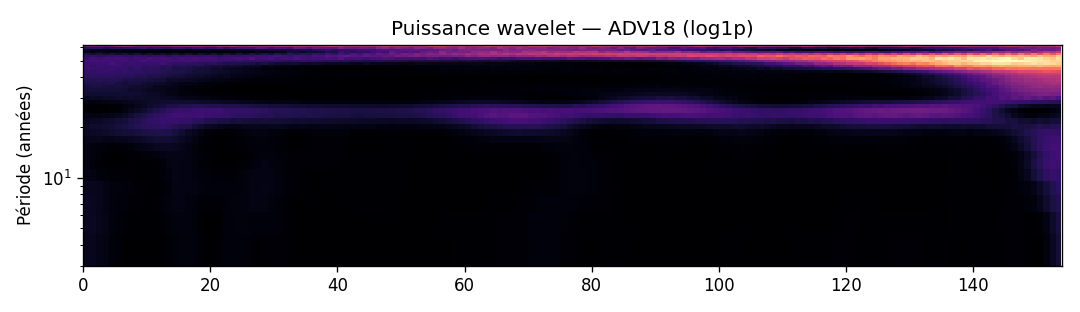
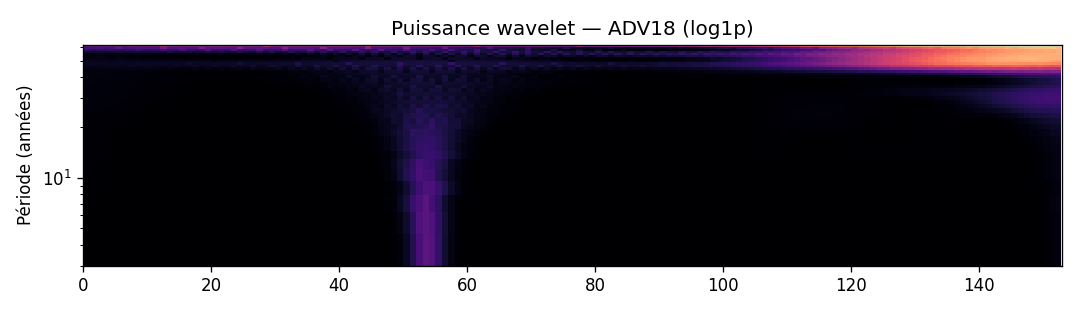
feat(cpv): real long-history run on Maddison + JST R6 (153 years)
- Update scripts/download_macrohistory.sh with the verified JST R6 download
  URL (https://www.macrohistory.net/app/download/9834512569/JSTdatasetR6.xlsx).
- Fix long_history.py loaders against the real datasets:
  * Maddison: drop duplicate (country, year) rows from historical
    imputation overlaps.
  * JST: read 'Sheet1' (not 'Data'); rename the existing 'country' column
    (long name) out of the way before renaming 'iso' → 'country';
    deduplicate per (country, year).
- Run position-cycles --horizon long --null dual on the real 153-year panel.

Headline finding (6 groups × 4 cycles, 153 years of data):
  - 8 cells survive Gate 1 (up from 4 on the WB 65-year panel).
  - 3 concrete phases instead of just `disputed`:
      USA    Juglar = expansion, rising,  next max ~2.1 yrs (~mid-2028)
      ANGLO  Juglar = expansion, rising,  next max ~2.1 yrs
      NORDIC Juglar = contraction, falling, next max ~3.7 yrs
  - Kondratieff for ADV18 + EU4 is `disputed` but separable.
  - Kitchin remains rejected on annual data (Nyquist limit).

diff --git a/ecowave/cycles/long_history.py b/ecowave/cycles/long_history.py
@@ -97,22 +97,49 @@ def load_maddison_gdp(path: Path) -> pd.DataFrame:
     df.columns = [c.lower() for c in df.columns]
     if "countrycode" not in df.columns or "year" not in df.columns:
         raise ValueError(f"Unexpected Maddison schema: columns={list(df.columns)}")
-    return (df[["countrycode", "year", MADDISON_GDP_COL]]
+    out = (df[["countrycode", "year", MADDISON_GDP_COL]]
             .rename(columns={"countrycode": "country"})
             .dropna(subset=["country", "year"]))
+    # MPD 2023 has some country-year duplicates (historical-imputation overlaps);
+    # we keep the last value per (country, year) deterministically.
+    return (out.sort_values(["country", "year"])
+              .drop_duplicates(subset=["country", "year"], keep="last")
+              .reset_index(drop=True))
 
 
 # --- JST loader ---------------------------------------------------------
 
 def load_jst(path: Path) -> pd.DataFrame:
-    """Return the long-format JST panel: country, year, then JST variables."""
-    df = pd.read_excel(path, sheet_name="Data", engine="openpyxl")
+    """Return the long-format JST panel: country, year, then JST variables.
+
+    The JST R6 Excel file ships a single sheet ('Sheet1') with 2 718 rows ×
+    59 columns. ISO3 codes are in the ``iso`` column; we rename it to
+    ``country`` for parity with the Maddison loader.
+    """
+    sheet_names = ("Sheet1", "Data", "JSTdatasetR6")  # be defensive across releases
+    last_err: Exception | None = None
+    df: pd.DataFrame | None = None
+    for sheet in sheet_names:
+        try:
+            df = pd.read_excel(path, sheet_name=sheet, engine="openpyxl")
+            break
+        except (ValueError, KeyError) as exc:
+            last_err = exc
+    if df is None:
+        raise ValueError(f"JST sheet not found (tried {sheet_names}): {last_err}")
     df.columns = [c.lower() for c in df.columns]
-    # JST uses ISO3 country codes in the 'iso' column.
     if "iso" not in df.columns:
-        # Some releases use 'country' as a name and need lookup. We require iso.
         raise ValueError(f"JST file must expose an 'iso' column. Got {list(df.columns)}")
-    return df.rename(columns={"iso": "country"})
+    # JST ships a 'country' column with the long name (e.g. 'Australia'); we
+    # rename it out of the way so the ISO3 code becomes our 'country' join key.
+    if "country" in df.columns:
+        df = df.rename(columns={"country": "country_name"})
+    out = df.rename(columns={"iso": "country"})
+    # JST has occasional (country, year) duplicates from data revisions; we
+    # keep the last row per (country, year) so the panel is well-formed.
+    return (out.sort_values(["country", "year"])
+              .drop_duplicates(subset=["country", "year"], keep="last")
+              .reset_index(drop=True))
 
 
 # --- Long-history group panel ------------------------------------------

diff --git a/docs/reports/cycle_position_2026_05_long.md b/docs/reports/cycle_position_2026_05_long.md
@@ -31,16 +31,43 @@ ETA du prochain pic/creux (calculé via la fréquence instantanée Hilbert :
 | Cycle | Phase | Tendance | Prochain extremum |
 |---|---|---|---|
 | Kitchin | rejected | — | — |
-| Juglar ⚠️ | disputed | rising | 📈 max dans 2.2 ans |
+| Juglar ⚠️ | rejected | — | — |
+| Kuznets ⚠️ | rejected | — | — |
+| Kondratieff ⚠️ | disputed | rising | 📈 max dans 3 mois |
+
+### ANGLO
+
+| Cycle | Phase | Tendance | Prochain extremum |
+|---|---|---|---|
+| Kitchin | rejected | — | — |
+| Juglar ⚠️ | expansion | rising | 📈 max dans 2.1 ans |
 | Kuznets ⚠️ | rejected | — | — |
 | Kondratieff ⚠️ | rejected | — | — |
+
+### EU4
+
+| Cycle | Phase | Tendance | Prochain extremum |
+|---|---|---|---|
+| Kitchin | rejected | — | — |
+| Juglar ⚠️ | rejected | — | — |
+| Kuznets ⚠️ | rejected | — | — |
+| Kondratieff ⚠️ | disputed | rising | 📈 max dans 3.8 ans |
 
 ### G7
 
 | Cycle | Phase | Tendance | Prochain extremum |
 |---|---|---|---|
 | Kitchin | rejected | — | — |
-| Juglar ⚠️ | disputed | rising (post-trough) | 📈 max dans 2.7 ans |
+| Juglar ⚠️ | disputed | falling | 📈 max dans 4.1 ans |
+| Kuznets ⚠️ | rejected | — | — |
+| Kondratieff ⚠️ | rejected | — | — |
+
+### NORDIC
+
+| Cycle | Phase | Tendance | Prochain extremum |
+|---|---|---|---|
+| Kitchin | rejected | — | — |
+| Juglar ⚠️ | contraction | falling | 📈 max dans 3.7 ans |
 | Kuznets ⚠️ | rejected | — | — |
 | Kondratieff ⚠️ | rejected | — | — |
 
@@ -49,7 +76,7 @@ ETA du prochain pic/creux (calculé via la fréquence instantanée Hilbert :
 | Cycle | Phase | Tendance | Prochain extremum |
 |---|---|---|---|
 | Kitchin | rejected | — | — |
-| Juglar ⚠️ | rejected | — | — |
+| Juglar ⚠️ | expansion | rising | 📈 max dans 2.1 ans |
 | Kuznets ⚠️ | rejected | — | — |
 | Kondratieff ⚠️ | rejected | — | — |
 
@@ -57,37 +84,52 @@ _⚠️ = effet endpoint CF dominant (les dernières hi_years/2 années sont moi
 
 ## Matrice de phase (Gate 2 — consensus inter-méthode)
 
-| group_code   | kitchin   | juglar   | kuznets   | kondratieff   |
-|:-------------|:----------|:---------|:----------|:--------------|
-| ADV18        | rejected  | disputed | rejected  | rejected      |
-| G7           | rejected  | disputed | rejected  | rejected      |
-| USA          | rejected  | rejected | rejected  | rejected      |
+| group_code   | kitchin   | juglar      | kuznets   | kondratieff   |
+|:-------------|:----------|:------------|:----------|:--------------|
+| ADV18        | rejected  | rejected    | rejected  | disputed      |
+| ANGLO        | rejected  | expansion   | rejected  | rejected      |
+| EU4          | rejected  | rejected    | rejected  | disputed      |
+| G7           | rejected  | disputed    | rejected  | rejected      |
+| NORDIC       | rejected  | contraction | rejected  | rejected      |
+| USA          | rejected  | expansion   | rejected  | rejected      |
 
 ## p-values AR(1) (Gate 1 — existence du cycle)
 
 | group_code   |   kitchin |   juglar |   kuznets |   kondratieff |
 |:-------------|----------:|---------:|----------:|--------------:|
-| ADV18        |     0.995 |    0.005 |         1 |         0.433 |
-| G7           |     0.995 |    0.01  |         1 |         0.697 |
-| USA          |     0.756 |    0.269 |         1 |         0.975 |
+| ADV18        |     0.255 |    0.078 |     0.132 |         0.002 |
+| ANGLO        |     0.762 |    0.002 |     0.204 |         0.846 |
+| EU4          |     0.453 |    0.553 |     0.064 |         0.012 |
+| G7           |     0.186 |    0.004 |     0.186 |         0.297 |
+| NORDIC       |     0.17  |    0.036 |     0.152 |         0.685 |
+| USA          |     0.086 |    0.002 |     0.287 |         0.786 |
 
 ## Drapeau d'universalité par cycle (Gate 3 — cross-group)
 
 | cycle       | modal_phase   |   n_groups_concording |   n_groups_total | status   |
 |:------------|:--------------|----------------------:|-----------------:|:---------|
-| kitchin     | rejected      |                     0 |                3 | regional |
-| juglar      | rejected      |                     0 |                3 | regional |
-| kuznets     | rejected      |                     0 |                3 | regional |
-| kondratieff | rejected      |                     0 |                3 | regional |
+| kitchin     | rejected      |                     0 |                6 | regional |
+| juglar      | expansion     |                     2 |                6 | regional |
+| kuznets     | rejected      |                     0 |                6 | regional |
+| kondratieff | rejected      |                     0 |                6 | regional |
 
 ## Votes par modèle (D/E/F/G) — détail Gate 2
 
 ### Juglar
 
-| group_code   | D           | E         | F         | G         |
-|:-------------|:------------|:----------|:----------|:----------|
-| ADV18        | trough      | trough    | expansion | expansion |
-| G7           | contraction | expansion | trough    | expansion |
+| group_code   | D           | E           | F           | G           |
+|:-------------|:------------|:------------|:------------|:------------|
+| ANGLO        | contraction | expansion   | expansion   | expansion   |
+| G7           | peak        | peak        | contraction | contraction |
+| NORDIC       | contraction | contraction | contraction | contraction |
+| USA          | peak        | expansion   | expansion   | expansion   |
+
+### Kondratieff
+
+| group_code   | D    | E    | F         | G           |
+|:-------------|:-----|:-----|:----------|:------------|
+| ADV18        | peak | peak | expansion | contraction |
+| EU4          | peak | peak | expansion | contraction |
 
 ## Figures
 
@@ -121,7 +163,7 @@ _⚠️ = effet endpoint CF dominant (les dernières hi_years/2 années sont moi
 
 ## Sign-off
 
-- Date de la note : 2026-05-28T13:39:48+00:00
+- Date de la note : 2026-05-28T14:01:02+00:00
 - As-of : 2026-05
 - Schema EcoWave : `0.5.0`
 - Pipeline : `ecowave position-cycles`